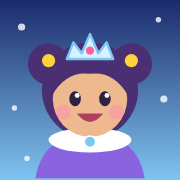
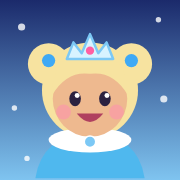
Restyle Princess Lumi as a blonde snow queen in ice blue
Claude-Session: https://claude.ai/code/session_01C2rw6z4YxQJpFpyGGoM9BY

diff --git a/public/game.js b/public/game.js
@@ -65,19 +65,19 @@ function tileSVG(type, special) {
   const body = special === 'bomb' ? bombSVG() : SHAPES[type]() + (special ? OVERLAY[special] : '');
   return `<svg viewBox="0 0 100 100">${body}</svg>`;
 }
-/* Princess Lumi: original character. Plum hair buns, star clips, snowflake tiara, lilac cape. */
+/* Princess Lumi: original character. pale gold hair buns, blue star clips, snowflake tiara, ice-blue gown. */
 function lumiSVG(happy) {
   const mouth = happy
     ? '<path d="M84 122q16 20 32 0z" fill="#b0405f"/>'
     : '<path d="M86 124q14 12 28 0" fill="none" stroke="#b0405f" stroke-width="4" stroke-linecap="round"/>';
   return `<svg viewBox="0 0 200 200">
-  <path d="M34 200q8-52 66-54 58 2 66 54z" fill="#8a63e0"/>
-  <circle cx="50" cy="62" r="25" fill="#4a2f73"/><circle cx="150" cy="62" r="25" fill="#4a2f73"/>
-  <circle cx="100" cy="94" r="58" fill="#4a2f73"/>
+  <path d="M34 200q8-52 66-54 58 2 66 54z" fill="#4fb8ee"/>
+  <circle cx="50" cy="62" r="25" fill="#f7e3a0"/><circle cx="150" cy="62" r="25" fill="#f7e3a0"/>
+  <circle cx="100" cy="94" r="58" fill="#f7e3a0"/>
   <ellipse cx="100" cy="154" rx="50" ry="15" fill="#fff"/>
   <ellipse cx="100" cy="104" rx="45" ry="46" fill="#eeb98f"/>
-  <path d="M54 100q0-52 46-52t46 52q-18-30-46-26-28-4-46 26z" fill="#4a2f73"/>
-  <polygon points="${starPts(50, 58, 11, 5)}" fill="#ffd23c"/><polygon points="${starPts(150, 58, 11, 5)}" fill="#ffd23c"/>
+  <path d="M54 100q0-52 46-52t46 52q-18-30-46-26-28-4-46 26z" fill="#f7e3a0"/>
+  <polygon points="${starPts(50, 58, 11, 5)}" fill="#3fa9f5"/><polygon points="${starPts(150, 58, 11, 5)}" fill="#3fa9f5"/>
   <path d="M72 56l8-20 10 13 10-23 10 23 10-13 8 20z" fill="#d8f3ff" stroke="#7cc8f5" stroke-width="3" stroke-linejoin="round"/>
   <circle cx="100" cy="46" r="5" fill="#ff5fa2"/>
   <ellipse cx="82" cy="104" rx="7" ry="9" fill="#2b2140"/><ellipse cx="118" cy="104" rx="7" ry="9" fill="#2b2140"/>
